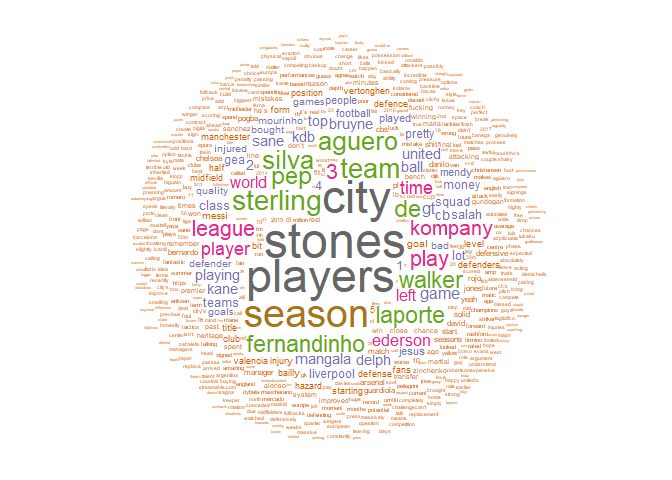
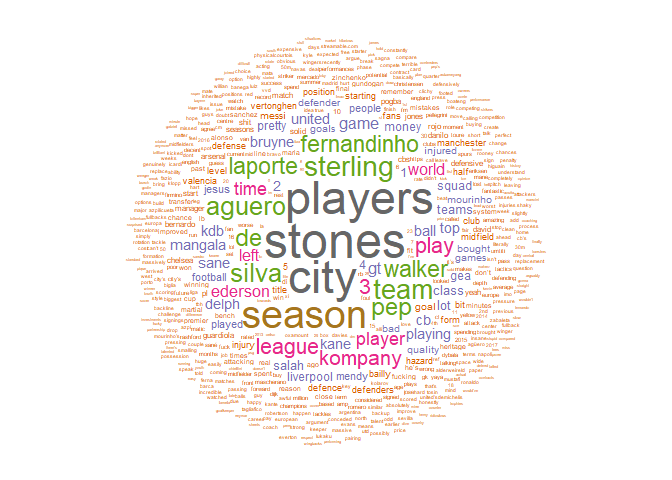
Update

Changed region(s): [[0.1875, 0.0625, 0.8125, 0.9375]]

diff --git a/Otamendi_wordclouds.md b/Otamendi_wordclouds.md
@@ -14,8 +14,18 @@ library(RColorBrewer)
 Extracting the data using Pushshift API
 ---------------------------------------
 
+Parameters for searching:
+\* API endpoint: api.pushshift.io/reddit/comment/search
+\* Subreddit: soccer
+\* Search term: Otamendi
+\* Fields to extract: body, subreddit, and created\_utc (date)
+\* Number of comments to download: 1,000
+\* Date boundaries:
++ Before World Cup: 2017-12-31 to 2018-06-13
++ During World Cup: after 2018-06-13
+
 ``` r
-# Getting 1,000 comments that mentioned Otamendi about 3 months before the World Cup
+# Getting 1,000 comments that mentioned Otamendi about 6 months before the World Cup
 
 link <- "https://api.pushshift.io/reddit/comment/search?subreddit=soccer&q=Otamendi&fields=body,subreddit,created_utc&before=1528934399&after=1514764800&size=1000"
 

diff --git a/README.md b/README.md
@@ -1,5 +1,5 @@
 # Wordclouds for Otamendi comments
 
-Plotting words associated with soccer player Nicolas Otamendi in soccer subreddit.
+Plotting words associated with soccer player Nicolas Otamendi in the soccer subreddit.
 
-Click on .md to view code and results.
+Click on the **Otamendi_wordclouds.md** file to view the code and results.
